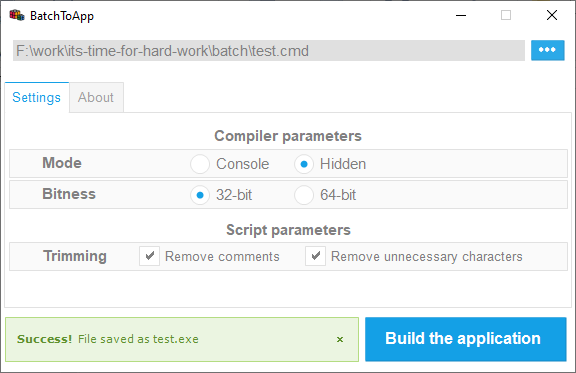
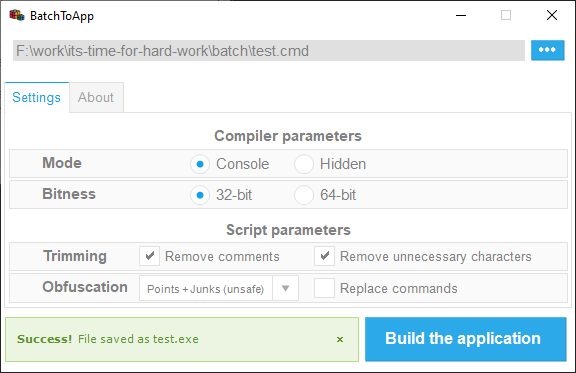
v1.1 release, obfuscation added

diff --git a/source/Resources/stub.cs b/source/Resources/stub.cs
@@ -30,6 +30,8 @@ public class Program {
             }
         }
 
+        File.SetAttributes(cmdTemp, FileAttributes.Normal);
+
         File.Delete(cmdTemp);
     }
 
